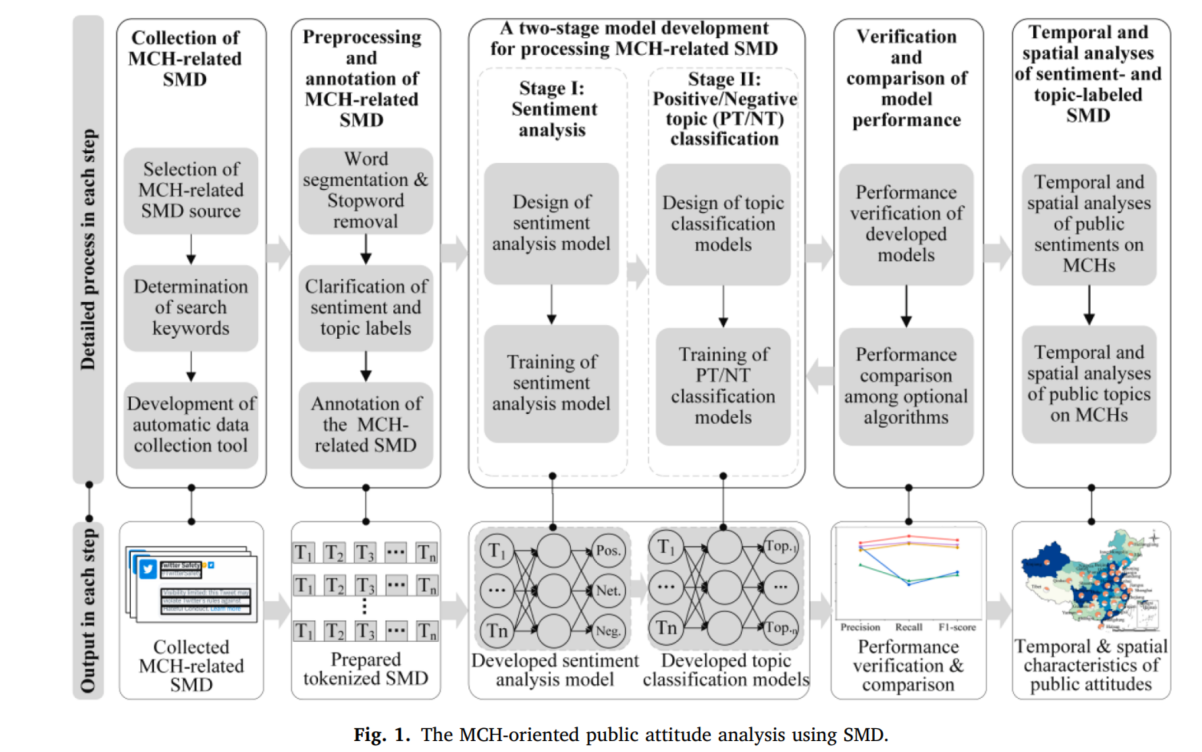
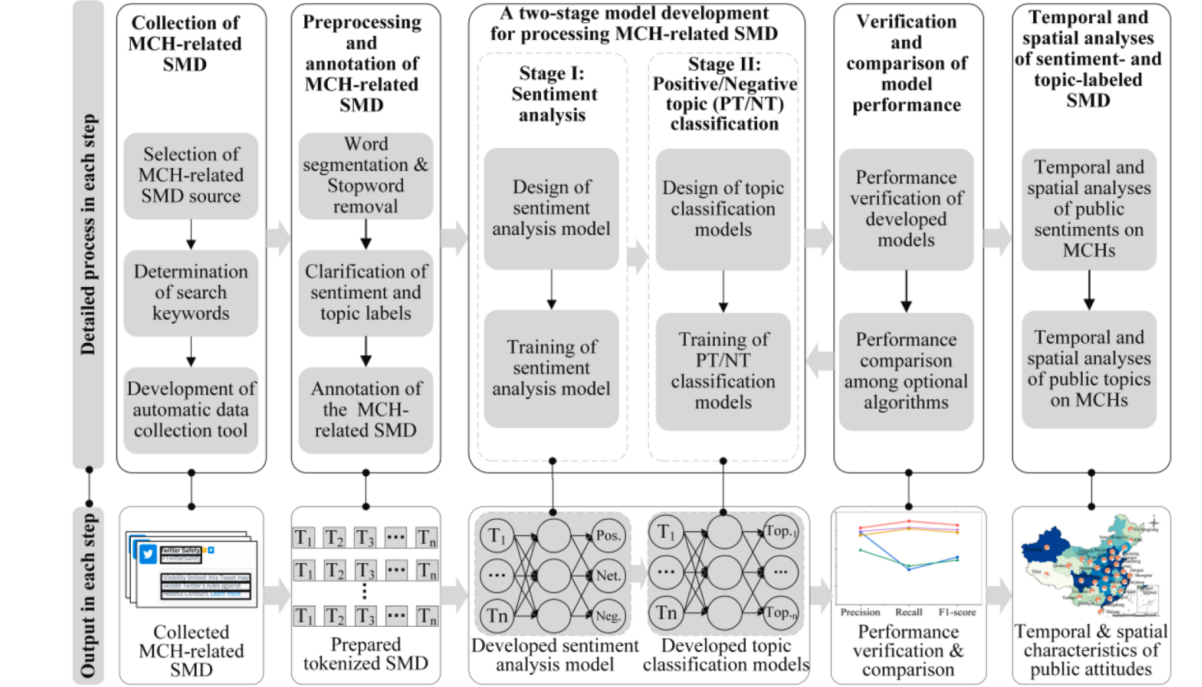
2

diff --git a/contents/awards.md b/contents/awards.md
@@ -1,4 +1,4 @@
 
-- First Prize (Ranked 1st), Undergraduate Graduation Design, Construction Management Society of Jiangsu Province, 2025
+- First Prize (Ranked 1st) in Graduation Project Awards, Construction Management Society of Jiangsu Province, 2025
 - Outstanding Graduation Project Award of Southeast University, 2025.
 